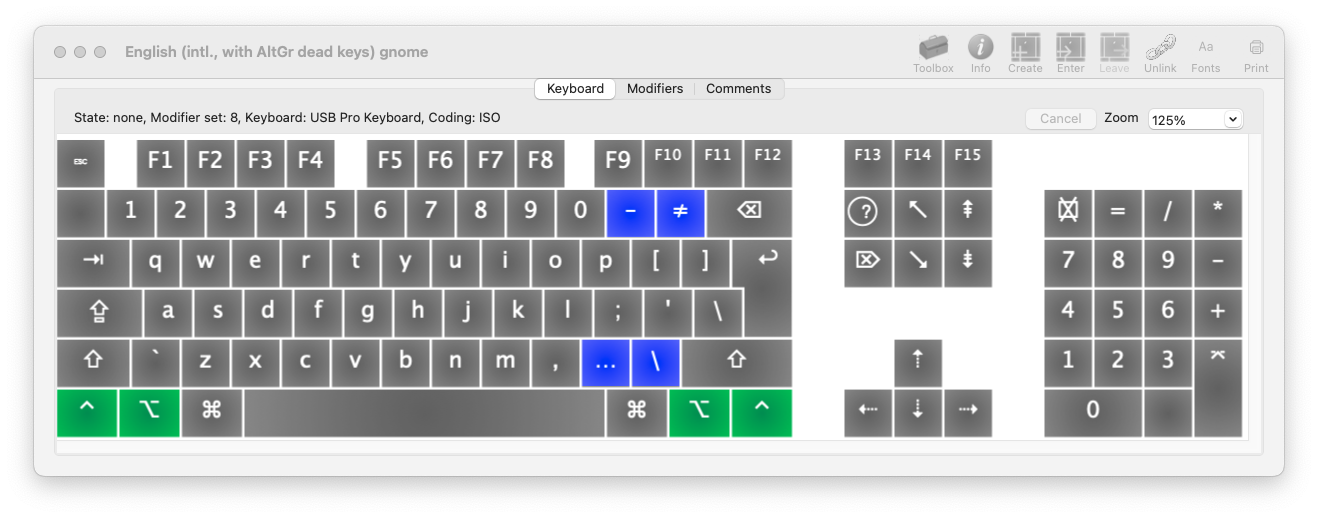
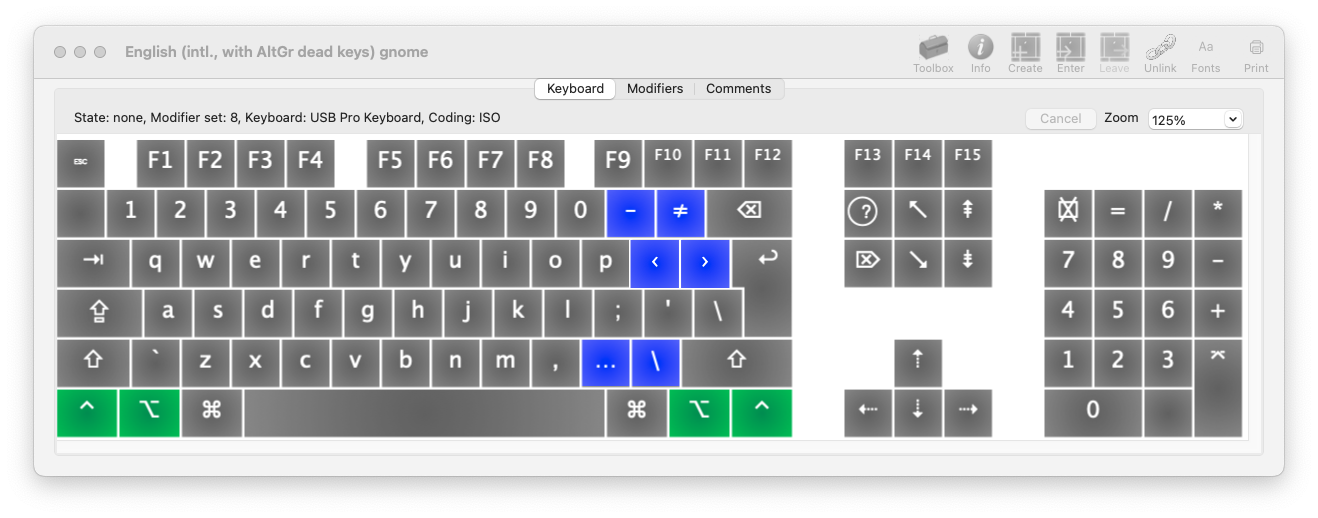
docs: Document the added Guillemets

Changed region(s): [[0.4666, 0.4633, 0.5599, 0.556]]

diff --git a/README.md b/README.md
@@ -5,13 +5,17 @@ This is a `.keylayout` file for MacOS which implements the "English (intl., with
 
 Same as  [bteixeira's *`keylayout-en-intl-altgr-dead-keys`*](https://github.com/bteixeira/keylayout-en-intl-altgr-dead-keys) with extra glyphs when `ctrl + option` are pressed:
 
-`ctrl + option + . [dot]` => `… [ellipsis]` 
+`ctrl + option + . [dot]` => `… [ellipsis]`
 
 `ctrl + option + - [minus]` => `– [ndash]`
 
 `ctrl + option + = [equal]` => `≠ [not equal]`
 
 `ctrl + option + / [forward slash]` => `\ [backward slash]`
+
+`ctrl + option + [` => `‹ [left single guillemet]`
+
+`ctrl + option + ]` => `› [right single guillemet]`
 
 
 ![Extra Features](extras.png)
@@ -20,4 +24,5 @@ Same as  [bteixeira's *`keylayout-en-intl-altgr-dead-keys`*](https://github.com/
 
 #### Rationale
 
-As a Dual Boot MacOS + Linux User with a blank keycaps keyboard (HHKB), I want the input method to be as consistent as possible.
+* As a Dual Boot MacOS + Linux User with a blank keycaps keyboard (HHKB), I want the input method to be as consistent as possible.
+* As an opinionated Typophile, I want easy access to a few more neat looking punctuation marks.
